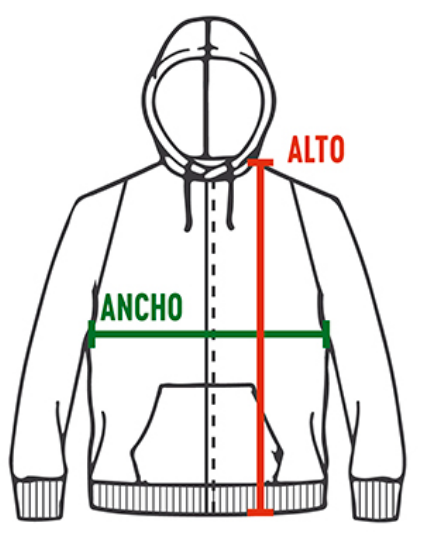
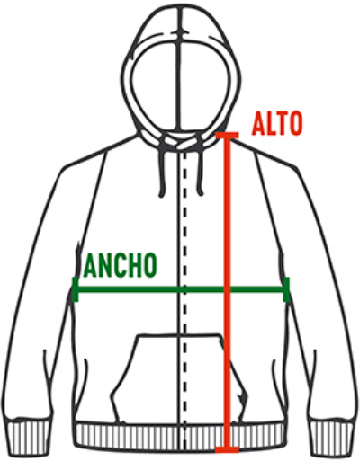
Mejoras pre-entrega 2

Changed region(s): [[0.0, 0.0, 1.0, 1.0]]

diff --git a/pages/talles.html b/pages/talles.html
@@ -11,7 +11,7 @@
     <!-- ICONOS -->
     <link rel="stylesheet" href="https://cdnjs.cloudflare.com/ajax/libs/font-awesome/6.1.1/css/all.min.css"
         integrity="sha512-KfkfwYDsLkIlwQp6LFnl8zNdLGxu9YAA1QvwINks4PhcElQSvqcyVLLD9aMhXd13uQjoXtEKNosOWaZqXgel0g=="
-        crossorigin="anonymous" referrerpolicy="no-referrer" /> 
+        crossorigin="anonymous" referrerpolicy="no-referrer" />
     <!-- LINK CSS -->
     <link rel="stylesheet" href="../main.css">
     <title>Talles - Black Owl</title>
@@ -23,7 +23,8 @@
     <nav id="nav1" class="navbar navbar-expand-lg navbar-dark" style="background-color: #000000">
         <div class="container-fluid">
             <div class="logo1">
-                <a class="navbar-brand" href="../index.html"><img class="logo" src="../multimedia/Logo.png" alt="logo"></a>
+                <a class="navbar-brand" href="../index.html"><img class="logo" src="../multimedia/Logo.png"
+                        alt="logo"></a>
             </div>
 
             <button class="navbar-toggler" type="button" data-bs-toggle="collapse" data-bs-target="#navbarNav"
@@ -66,80 +67,87 @@
             </div>
         </div>
     </nav>
-    <!-- FIN NAVBAR --> 
-
-    <!-- ENCABEZADO  -->
-
-    <section id="header" class="jumbotron text-center">
-        <h2 class="display-6">Medidas de remeras</h2>
-    </section>
-
-    <!-- FIN ENCABEZADO -->
+    <!-- FIN NAVBAR -->
 
     <!-- TABLA REMERAS -->
 
-    <div class="container-table">
-        <div class="table__title">Tabla de talles</div>
-        <div class="table__header">Talle</div>
-        <div class="table__header">Ancho</div>
-        <div class="table__header">Largo</div>
-        <div class="table__item">S</div>
-        <div class="table__item">54Cm</div>
-        <div class="table__item">73Cm</div>
-        <div class="table__item">M</div>
-        <div class="table__item">55Cm</div>
-        <div class="table__item">75Cm</div>
-        <div class="table__item">L</div>
-        <div class="table__item">57Cm</div>
-        <div class="table__item">78Cm</div>
-        <div class="table__item">XL</div>
-        <div class="table__item">59Cm</div>
-        <div class="table__item">80Cm</div>
-        <div class="table__item">XXL</div>
-        <div class="table__item">62Cm</div>
-        <div class="table__item">82Cm</div>
-        <div class="table__item">XXXL</div>
-        <div class="table__item">64Cm</div>
-        <div class="table__item">84Cm</div>
-    </div>
+    <section id="tabla" class="container">
+        <div class="row">
+            <div class="col-sm-12 col-md-4 col-lg-6">
+                <div class="container-table">
+                    <div class="table__title">Medidas de remeras</div>
+                    <div class="table__header">Talle</div>
+                    <div class="table__header">Ancho</div>
+                    <div class="table__header">Largo</div>
+                    <div class="table__item">S</div>
+                    <div class="table__item">54Cm</div>
+                    <div class="table__item">73Cm</div>
+                    <div class="table__item">M</div>
+                    <div class="table__item">55Cm</div>
+                    <div class="table__item">75Cm</div>
+                    <div class="table__item">L</div>
+                    <div class="table__item">57Cm</div>
+                    <div class="table__item">78Cm</div>
+                    <div class="table__item">XL</div>
+                    <div class="table__item">59Cm</div>
+                    <div class="table__item">80Cm</div>
+                    <div class="table__item">XXL</div>
+                    <div class="table__item">62Cm</div>
+                    <div class="table__item">82Cm</div>
+                    <div class="table__item">XXXL</div>
+                    <div class="table__item">64Cm</div>
+                    <div class="table__item">84Cm</div>
+                </div>
+            </div>
 
-    <!--FIN TABLA REMERAS -->  
-
-    <!-- ENCABEZADO  -->
-
-    <section id="header" class="jumbotron text-center">
-        <h2 class="display-6">Medidas de Buzos</h2>
+            <div class="col-sm-12 col-md-8 col-lg-6">
+                <div class="tablita2">
+                    <img src="../multimedia/Tabla_remeras.png" alt="Talles remeras" class="d-block">
+                </div>
+            </div>
+        </div>
     </section>
 
-    <!-- FIN ENCABEZADO -->
+    <!--FIN TABLA REMERAS -->
 
-    <!-- TABLA BUZOS --> 
+    <!-- TABLA BUZOS -->
 
-    <div class="container-table">
-        <div class="table__title">Tabla de talles</div>
-        <div class="table__header">Talle</div>
-        <div class="table__header">Ancho</div>
-        <div class="table__header">Largo</div>
-        <div class="table__item">S</div>
-        <div class="table__item">54Cm</div>
-        <div class="table__item">73Cm</div>
-        <div class="table__item">M</div>
-        <div class="table__item">55Cm</div>
-        <div class="table__item">75Cm</div>
-        <div class="table__item">L</div>
-        <div class="table__item">57Cm</div>
-        <div class="table__item">78Cm</div>
-        <div class="table__item">XL</div>
-        <div class="table__item">59Cm</div>
-        <div class="table__item">80Cm</div>
-        <div class="table__item">XXL</div>
-        <div class="table__item">62Cm</div>
-        <div class="table__item">82Cm</div>
-        <div class="table__item">XXXL</div>
-        <div class="table__item">64Cm</div>
-        <div class="table__item">84Cm</div>
-    </div>
+    <section id="tabla" class="container">
+        <div class="row">
+            <div class="col-sm-12 col-md-4 col-lg-6">
+                <div class="container-table">
+                    <div class="table__title">Medidas de Buzos</div>
+                    <div class="table__header">Talle</div>
+                    <div class="table__header">Ancho</div>
+                    <div class="table__header">Alto</div>
+                    <div class="table__item">S</div>
+                    <div class="table__item">57Cm</div>
+                    <div class="table__item">71Cm</div>
+                    <div class="table__item">M</div>
+                    <div class="table__item">61Cm</div>
+                    <div class="table__item">73Cm</div>
+                    <div class="table__item">L</div>
+                    <div class="table__item">65Cm</div>
+                    <div class="table__item">75Cm</div>
+                    <div class="table__item">XL</div>
+                    <div class="table__item">68Cm</div>
+                    <div class="table__item">78Cm</div>
+                    <div class="table__item">XXL</div>
+                    <div class="table__item">71Cm</div>
+                    <div class="table__item">81Cm</div>
+                    <div class="table__item">XXXL</div>
+                    <div class="table__item">74Cm</div>
+                    <div class="table__item">84Cm</div>
+                </div>
+            </div>
 
+            <div class="col-sm-12 col-md-8 col-lg-6">
+                <div class="tablita">
+                    <img src="../multimedia/Tabla_buzos.png" alt="Talles buzos" class="d-block">
+                </div>
+            </div>
+        </div>
+    </section>
     <!-- FIN TABLA BUZOS -->
 
     <!-- FOOTER -->

diff --git a/main.css b/main.css
@@ -26,7 +26,6 @@ body {
     color: white;
 }
 
-
 a {
     color: #9e9e9e;
     text-decoration: none;
@@ -87,10 +86,10 @@ a {
     font-size: 1.2em;
 }
 
-/* FIN ESTILADO REMERAS SALE*/ 
+/* FIN ESTILADO REMERAS SALE*/
 
 /* PAGINAS IND  */
-.pags{
+.pags {
     display: flex;
     justify-content: center;
 }
@@ -101,13 +100,32 @@ a {
 
 /* GRID + FLEXBOX*/
 
+.tablita {
+    display: flex;
+    justify-content: center;
+    align-items: center;
+} 
+
+.tablita2 {
+    display: flex;
+    justify-content: center;
+    align-items: center;
+}
+
+.tablita img {
+    margin-bottom: 3rem; 
+}  
+
+.tablita2 img {
+    margin-bottom: 3rem; 
+    margin-top: 3rem;
+} 
+
 .container-table {
-    width: 90%;
+    width: 100%;
     background: whitesmoke;
     margin: 50px auto;
-
     box-shadow: 0 0 20px #333;
-
     display: grid;
     grid-template-columns: repeat(3, 1fr);
     grid-auto-rows: 50px;
@@ -116,7 +134,6 @@ a {
 .table__title {
     grid-column-start: 1;
     grid-column-end: 4;
-
     background: black;
     color: white;
     display: flex;
@@ -220,7 +237,6 @@ a {
 }
 
 /* FIN EQUIPO */
-
 
 /* ESTILADO FOOTER */
 
@@ -333,11 +349,9 @@ footer ul li a {
     transform: scale(1.1);
 }
 
-
 /* FIN ANIMACIONES Y TRANSICIONES*/
 
 /* MEDIA  QUERY*/
-
 
 @media (min-width:600px) {
     .contenedor {
@@ -345,6 +359,12 @@ footer ul li a {
         margin-left: 20%;
     }
 
+}
+
+@media (max-width:992px) {
+    .table__title {
+        font-size: 1.4em;
+    }
 }
 
 @media (max-width:600px) {
